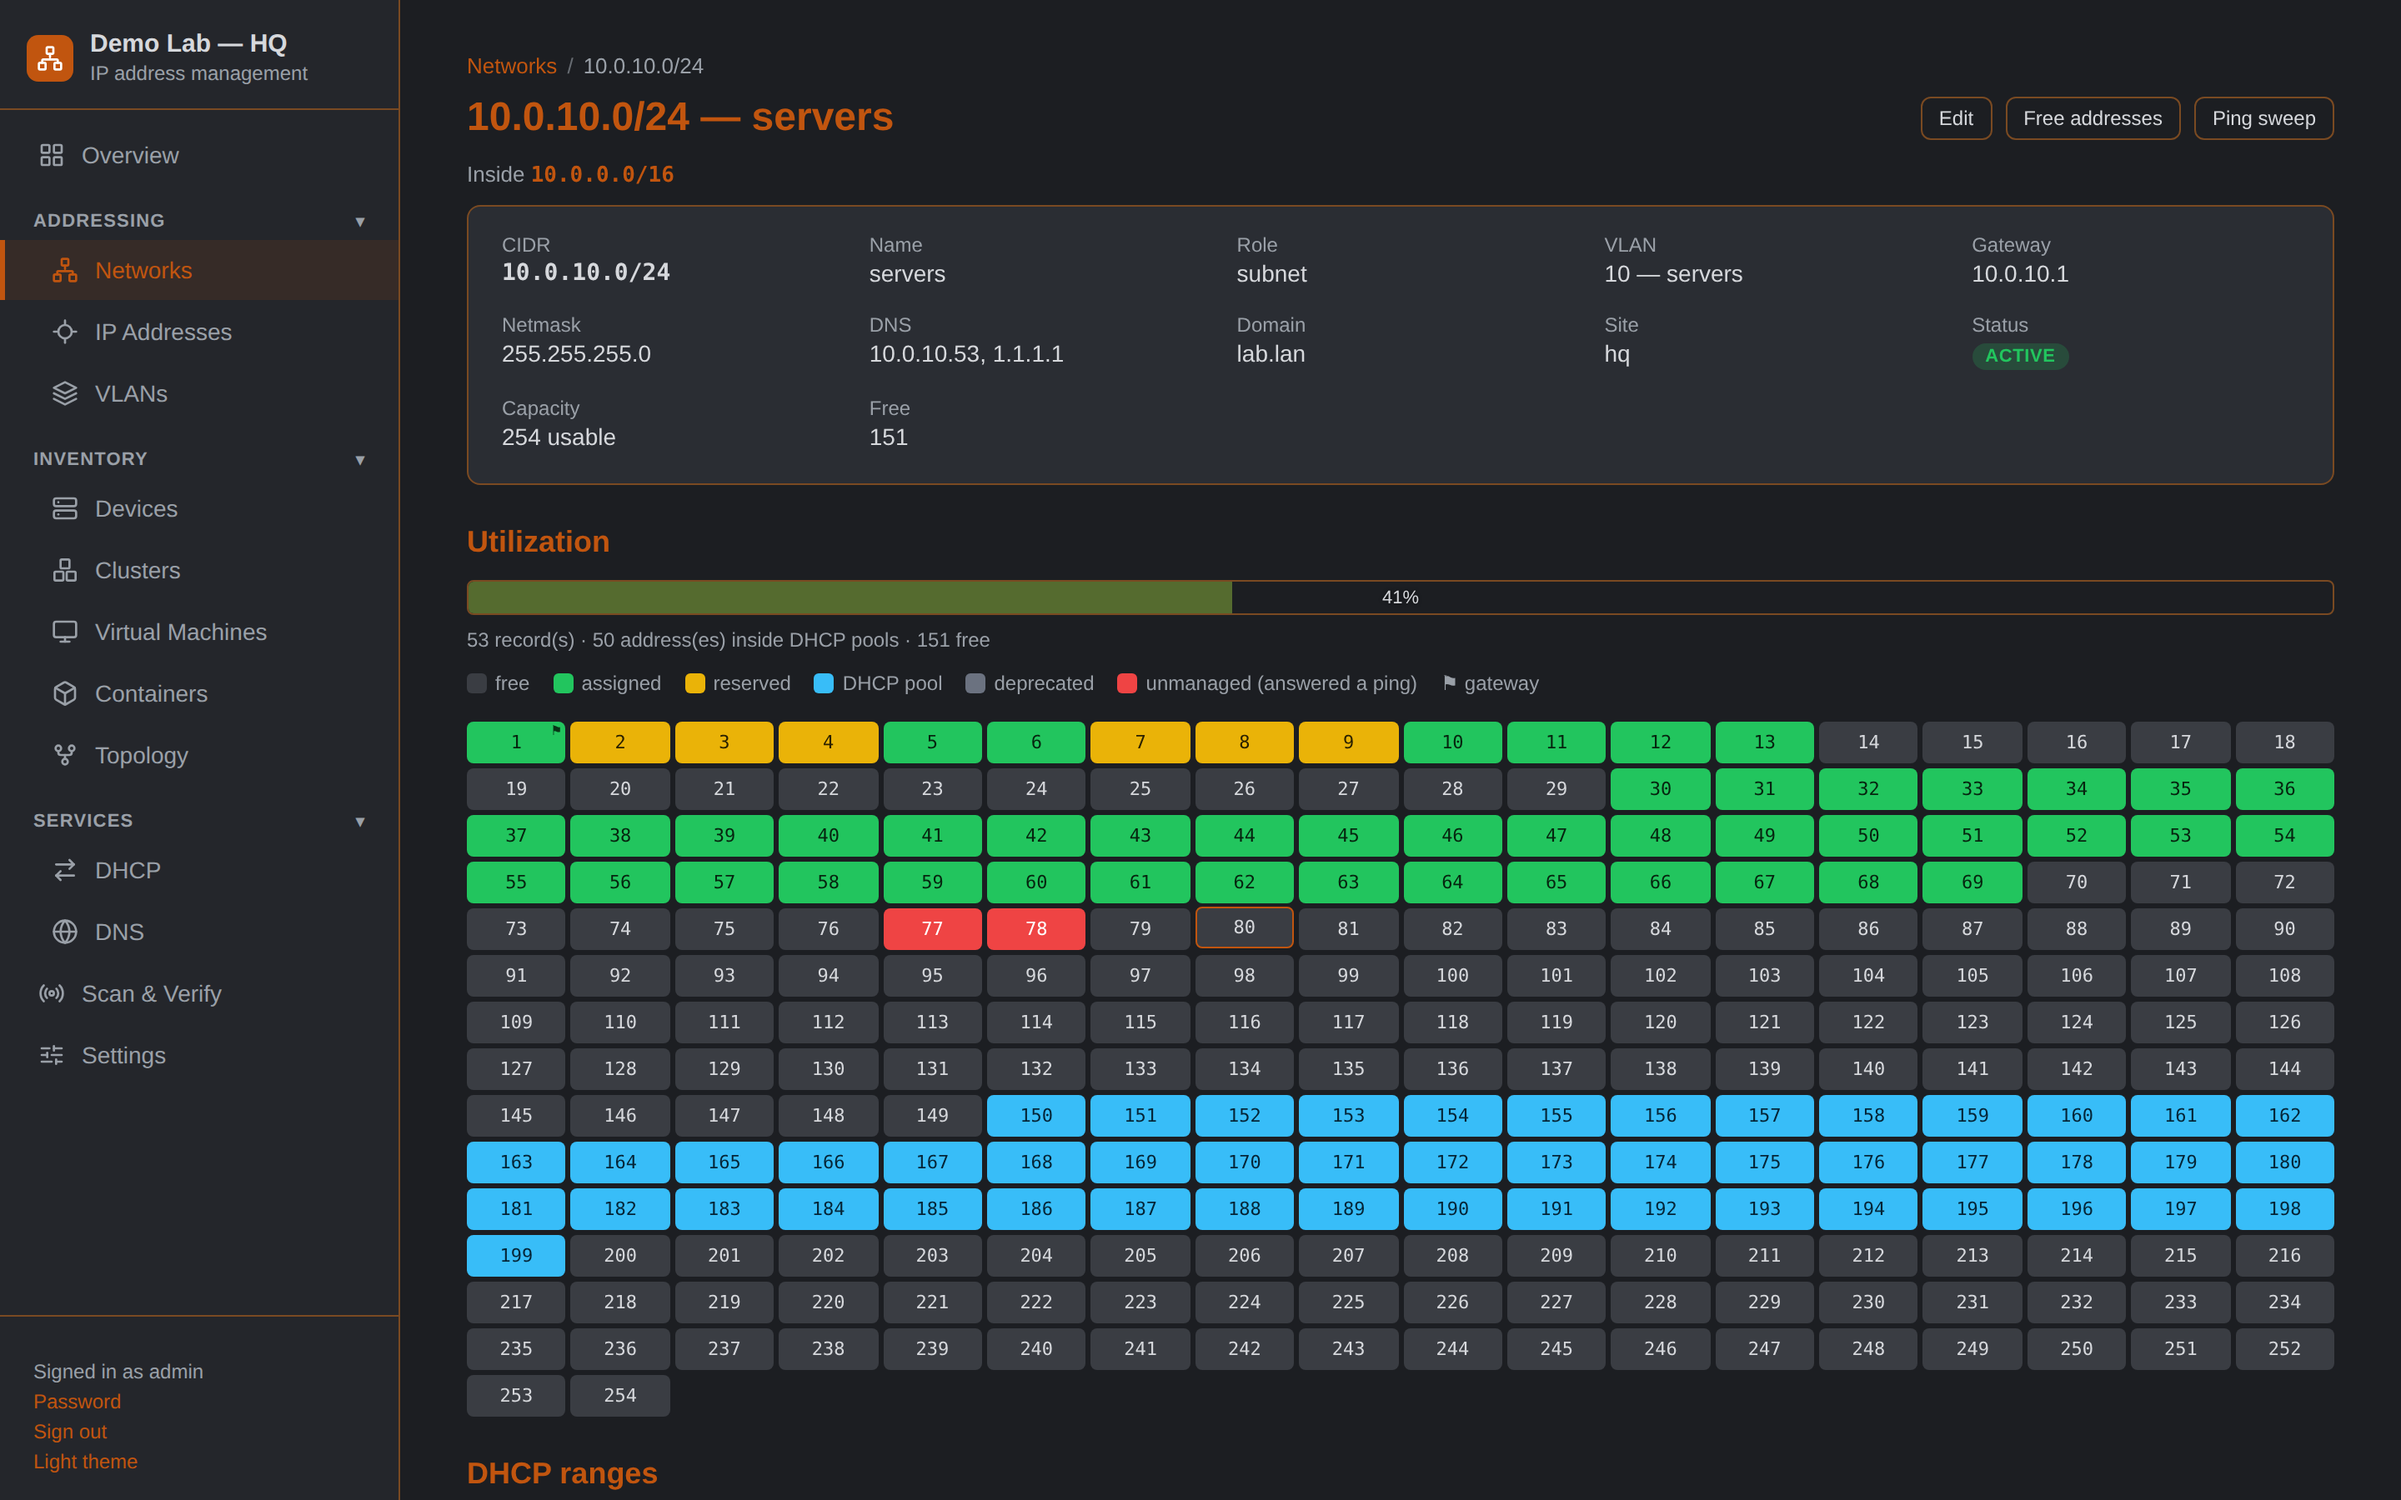
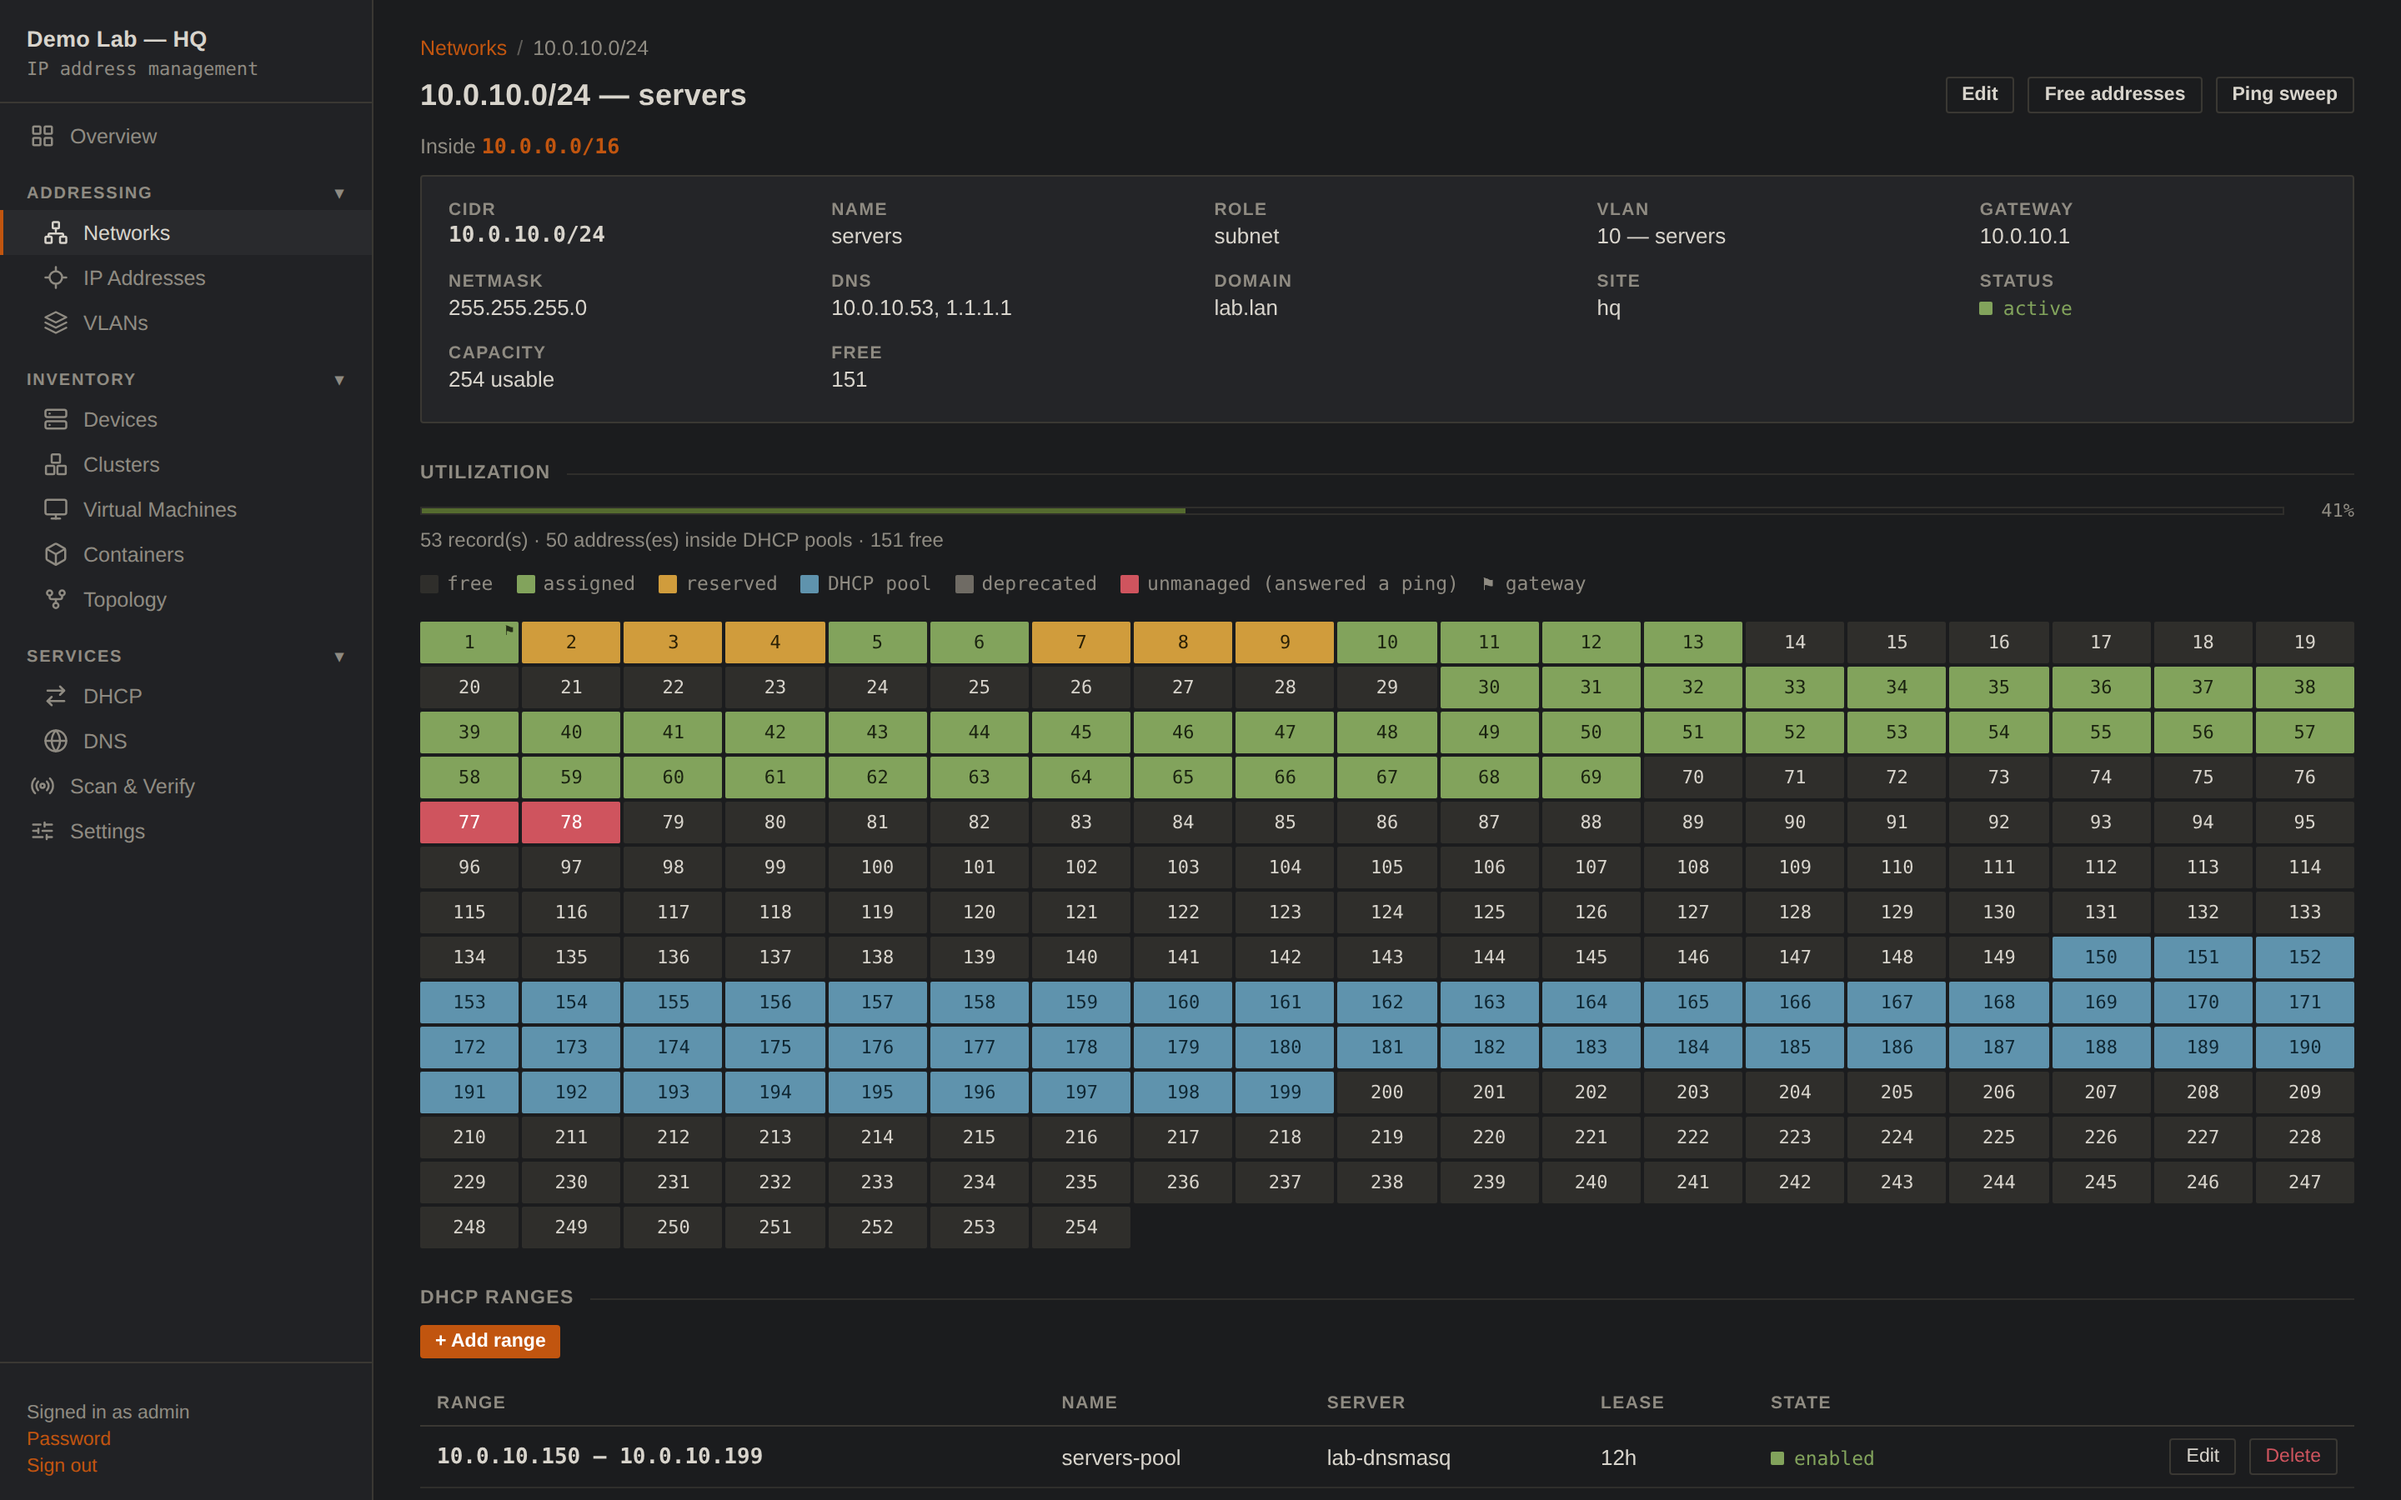
Refresh README screenshots for the restyled theme; add tools/seed_demo.py
The Demo Lab - HQ dataset re-captured at 1440x900@2x on the de-AI'd
interface: hairline stat strip, square-swatch statuses, mono figures, the
re-tokened IP map (olive/amber/steel/brick states), ghost table actions.

tools/seed_demo.py rebuilds the whole demo against a throwaway instance
(stdlib only): banner, VLANs, campus supernet + four subnets + v6 net, the
cluster/device/VM/container inventory, DHCP pools, reserved blocks, bulk
import, and the sweep artifacts (ping-verified records, three unmanaged
responders, two silent records) via direct scan_results writes - so the
next screenshot refresh is a one-command job.

diff --git a/tools/seed_demo.py b/tools/seed_demo.py
@@ -1,0 +1,192 @@
+#!/usr/bin/env python3
+"""Seed a throwaway Nexus IPAM instance with the README demo dataset.
+
+Builds the "Demo Lab — HQ" plan the docs/screenshots pages show: a campus
+supernet with four VLAN'd subnets (+ an IPv6 net), two DHCP pools, a small
+cluster/device/VM/container inventory, reserved gateway blocks, a bulk
+import, and — via direct SQLite writes — the sweep artifacts (ping-verified
+records, three unmanaged responders, two silent records) that make the
+Overview banner and Scan & Verify page show the reconcile workflow.
+
+Usage (stdlib only, run against a THROWAWAY instance — it writes freely):
+
+    NEXUSIPAM_TLS=0 NEXUSIPAM_PORT=8095 NEXUSIPAM_DATA_DIR=/tmp/ipam-demo \\
+        NEXUSIPAM_ADMIN_PASSWORD=demopass123 python3 nexus-ipam.py &
+    python3 tools/seed_demo.py --base http://127.0.0.1:8095 \\
+        --password demopass123 --db /tmp/ipam-demo/ipam.db
+
+Then take the README screenshots at 1440x900 (deviceScaleFactor 2):
+Overview, Networks, the 10.0.10.0/24 detail, IP Addresses, Devices,
+Topology, Scan & Verify.
+"""
+import argparse
+import http.cookiejar
+import ipaddress
+import json
+import sqlite3
+import time
+import urllib.request
+
+ap = argparse.ArgumentParser()
+ap.add_argument('--base', default='http://127.0.0.1:8095')
+ap.add_argument('--password', default='demopass123')
+ap.add_argument('--db', help='path to ipam.db (enables the sweep-artifact seeding)')
+args = ap.parse_args()
+
+jar = http.cookiejar.CookieJar()
+opener = urllib.request.build_opener(urllib.request.HTTPCookieProcessor(jar))
+
+
+def call(path, body=None, quiet=False):
+    req = urllib.request.Request(args.base + path)
+    if body is not None:
+        req.data = json.dumps(body).encode()
+        req.add_header('Content-Type', 'application/json')
+    try:
+        with opener.open(req) as r:
+            return json.loads(r.read() or b'{}')
+    except urllib.error.HTTPError as e:
+        detail = e.read().decode(errors='replace')[:160]
+        if not quiet:
+            print('FAIL %s %s %s' % (path, e.code, detail))
+        return {'_error': detail, '_code': e.code}
+
+
+call('/api/login', {'username': 'admin', 'password': args.password})
+print('login ok')
+
+call('/api/settings/banner', {'banner': 'Demo Lab — HQ'})
+
+# ─── VLANs + networks ────────────────────────────────────────────────
+vlans = {}
+for vid, name in ((10, 'servers'), (20, 'storage'), (30, 'iot'), (40, 'dmz')):
+    r = call('/api/vlans', {'vid': vid, 'name': name, 'site': 'hq'})
+    vlans[vid] = r.get('id') or (r.get('record') or {}).get('id')
+
+nets = {}
+def mknet(cidr, name, role='subnet', vlan=None, gw='', dns='', domain=''):
+    r = call('/api/networks', {'cidr': cidr, 'name': name, 'role': role,
+                               'vlan_id': vlans.get(vlan), 'gateway': gw,
+                               'dns_servers': dns, 'domain': domain, 'site': 'hq'})
+    nets[name] = r.get('id') or (r.get('record') or {}).get('id')
+
+mknet('10.0.0.0/16', 'campus', role='container')
+mknet('10.0.10.0/24', 'servers', vlan=10, gw='10.0.10.1',
+      dns='10.0.10.53, 1.1.1.1', domain='lab.lan')
+mknet('10.0.20.0/24', 'storage', vlan=20, gw='10.0.20.1', domain='lab.lan')
+mknet('10.0.30.0/24', 'iot', vlan=30, gw='10.0.30.1', domain='lab.lan')
+mknet('10.0.40.0/28', 'dmz', vlan=40, gw='10.0.40.1', domain='lab.lan')
+mknet('2001:db8:10::/64', 'servers-v6', vlan=10)
+
+# ─── Inventory ───────────────────────────────────────────────────────
+def mkhost(coll, body):
+    r = call(coll, body)
+    return r.get('id') or (r.get('record') or {}).get('id')
+
+pve = mkhost('/api/clusters', {'name': 'pve-cluster', 'kind': 'proxmox', 'site': 'hq'})
+ceph = mkhost('/api/clusters', {'name': 'ceph-pool', 'kind': 'storage', 'site': 'hq'})
+
+dev = {}
+for name, body in (
+    ('core-sw1', {'role': 'switch', 'site': 'hq', 'rack': 'r1', 'position': 'U1'}),
+    ('edge-fw', {'role': 'firewall', 'tags': 'edge', 'site': 'hq', 'rack': 'r1', 'position': 'U2'}),
+    ('nas01', {'role': 'storage', 'tags': 'backup, storage', 'cluster_id': ceph,
+               'site': 'hq', 'rack': 'r1', 'position': 'U9'}),
+    ('pve-node1', {'role': 'server', 'tags': 'prod, virt', 'cluster_id': pve,
+                   'virt': 'proxmox', 'engine': 'docker', 'site': 'hq', 'rack': 'r1', 'position': 'U4'}),
+    ('pve-node2', {'role': 'server', 'tags': 'prod, virt', 'cluster_id': pve,
+                   'virt': 'proxmox', 'site': 'hq', 'rack': 'r1', 'position': 'U5'}),
+):
+    dev[name] = mkhost('/api/devices', {'name': name, **body})
+
+vm = {}
+for name, host in (('web01', 'pve-node1'), ('db01', 'pve-node1'), ('monitor01', 'pve-node1'),
+                   ('web02', 'pve-node2'), ('dns01', 'pve-node2')):
+    vm[name] = mkhost('/api/vms', {'name': name, 'platform': 'kvm',
+                                   'host_device_id': dev[host], 'cluster_id': pve,
+                                   'tags': 'proxmox'})
+
+for name, parent in (('grafana', 'monitor01'), ('prometheus', 'monitor01'), ('nginx', 'web01')):
+    mkhost('/api/containers', {'name': name, 'engine': 'docker',
+                               'parent_kind': 'vm', 'parent_id': vm[parent]})
+
+# ─── DHCP pools ──────────────────────────────────────────────────────
+dhcp = mkhost('/api/dhcp/servers', {'name': 'lab-dnsmasq', 'kind': 'dnsmasq',
+                                    'host_kind': 'vm', 'host_id': vm['dns01'],
+                                    'address': '10.0.10.53'})
+call('/api/dhcp/ranges', {'network_id': nets['servers'], 'server_id': dhcp,
+                          'name': 'servers-pool', 'start_addr': '10.0.10.150',
+                          'end_addr': '10.0.10.199', 'lease_time': '12h'})
+call('/api/dhcp/ranges', {'network_id': nets['iot'], 'server_id': dhcp,
+                          'name': 'iot-pool', 'start_addr': '10.0.30.100',
+                          'end_addr': '10.0.30.210', 'lease_time': '24h'})
+
+# ─── Addresses ───────────────────────────────────────────────────────
+def addr(address, dns_name='', kind='', ref=None, mac='', status='active', primary=True):
+    call('/api/addresses', {'address': address, 'status': status, 'dns_name': dns_name,
+                            'assigned_kind': kind, 'assigned_id': ref, 'mac': mac,
+                            'is_primary': primary})
+
+addr('10.0.10.1', 'gw', 'device', dev['edge-fw'], 'aa:10:00:00:00:01')
+addr('10.0.10.5', 'pve-node1', 'device', dev['pve-node1'], 'aa:10:00:00:00:05')
+addr('10.0.10.6', 'pve-node2', 'device', dev['pve-node2'], 'aa:10:00:00:00:06')
+addr('10.0.10.10', 'web01', 'vm', vm['web01'])
+addr('10.0.10.11', 'web02', 'vm', vm['web02'])
+addr('10.0.10.12', 'db01', 'vm', vm['db01'])
+addr('10.0.10.13', 'monitor01', 'vm', vm['monitor01'])
+addr('10.0.10.53', 'dns01', 'vm', vm['dns01'])
+addr('10.0.20.10', 'nas01', 'device', dev['nas01'], 'aa:20:00:00:00:0a')
+for ip, name in (('10.0.30.20', 'cam-front'), ('10.0.30.21', 'cam-back'),
+                 ('10.0.30.30', 'hue-bridge'), ('10.0.30.40', 'thermostat')):
+    addr(ip, name)
+
+# Reserved gateway blocks (.2-.4, .7-.9)
+call('/api/networks/%d/reserve' % nets['servers'],
+     {'start': '10.0.10.2', 'end': '10.0.10.4', 'description': 'network gear'})
+call('/api/networks/%d/reserve' % nets['servers'],
+     {'start': '10.0.10.7', 'end': '10.0.10.9', 'description': 'network gear'})
+
+# Bulk import: hosts .30-.69 (+ one duplicate so the activity shows a skip)
+items = [{'address': '10.0.10.%d' % i, 'dns_name': 'host%d' % i,
+          'mac': 'aa:10:00:00:01:%02x' % i} for i in range(30, 70)]
+items.append({'address': '10.0.10.30', 'dns_name': 'host30'})
+r = call('/api/addresses/bulk', {'addresses': items, 'source': 'import'})
+print('bulk:', {k: r[k] for k in r if not k.startswith('_')})
+
+# ─── Sweep artifacts (direct SQLite; the app derives Overview's reconcile
+#     banner, PING columns and Scan & Verify tables from scan_results) ──
+if args.db:
+    hexify = lambda ip: format(int(ipaddress.ip_address(ip)), '032x')
+    now = int(time.time())
+    seen = now - 9 * 60
+    con = sqlite3.connect(args.db)
+    rows = []
+
+    def alive(ip, rtt, hostname='', mac=''):
+        rows.append((ip, 4, hexify(ip), 1, 'icmp', rtt, hostname, mac, seen, seen))
+
+    def silent(ip):
+        rows.append((ip, 4, hexify(ip), 0, 'icmp', None, '', '', seen, 0))
+
+    for last, rtt in ((1, 0.4), (5, 0.5), (6, 0.6), (10, 0.9), (11, 1.1), (12, 0.8), (13, 1.0), (53, 0.7)):
+        alive('10.0.10.%d' % last, rtt)
+    for i in range(30, 70):
+        if i in (49, 50):
+            continue
+        alive('10.0.10.%d' % i, round(0.3 + (i % 17) / 10.0, 1))
+    silent('10.0.10.49')
+    silent('10.0.10.50')
+    alive('10.0.20.10', 0.4)
+    # The three unmanaged responders — no address record, outside every pool.
+    alive('10.0.10.77', 0.7, 'rogue-pi', 'aa:a5:00:00:02:4d')
+    alive('10.0.10.78', 1.8, '', 'aa:ca:00:00:02:18')
+    alive('10.0.20.99', 0.3, 'old-nas', 'aa:25:00:00:02:30')
+    con.executemany(
+        'INSERT OR REPLACE INTO scan_results '
+        '(address, version, addr_hex, alive, method, rtt_ms, hostname, mac, last_scan, last_alive) '
+        'VALUES (?,?,?,?,?,?,?,?,?,?)', rows)
+    con.commit()
+    con.close()
+    print('scan artifacts: %d rows' % len(rows))
+
+print('seeded')
